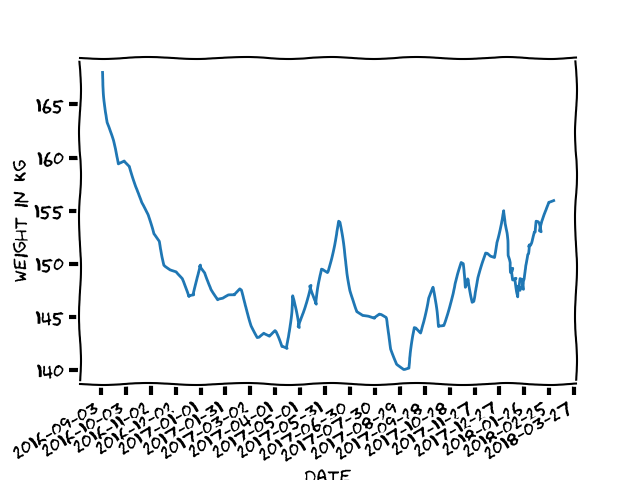
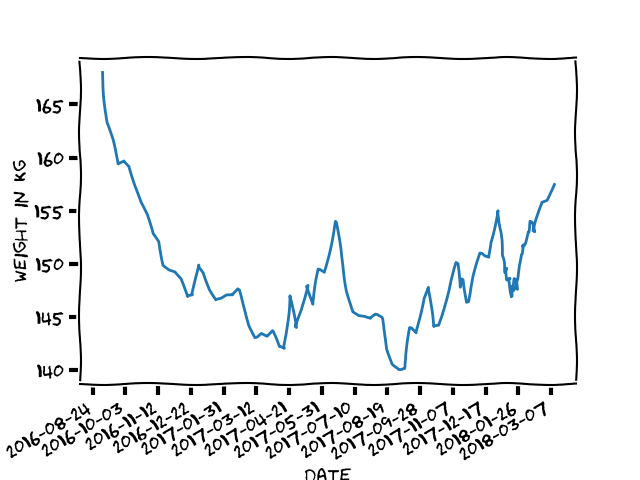
Week 10 update

diff --git a/index.html b/index.html
@@ -30,6 +30,14 @@
   </thead>
   <tbody>
     <tr>
+      <th>2018-03-10</th>
+      <td>157.5</td>
+      <td>1.5</td>
+      <td>-10.5</td>
+      <td>47.0</td>
+      <td>1.9</td>
+    </tr>
+    <tr>
       <th>2018-03-02</th>
       <td>156.0</td>
       <td>0.2</td>
